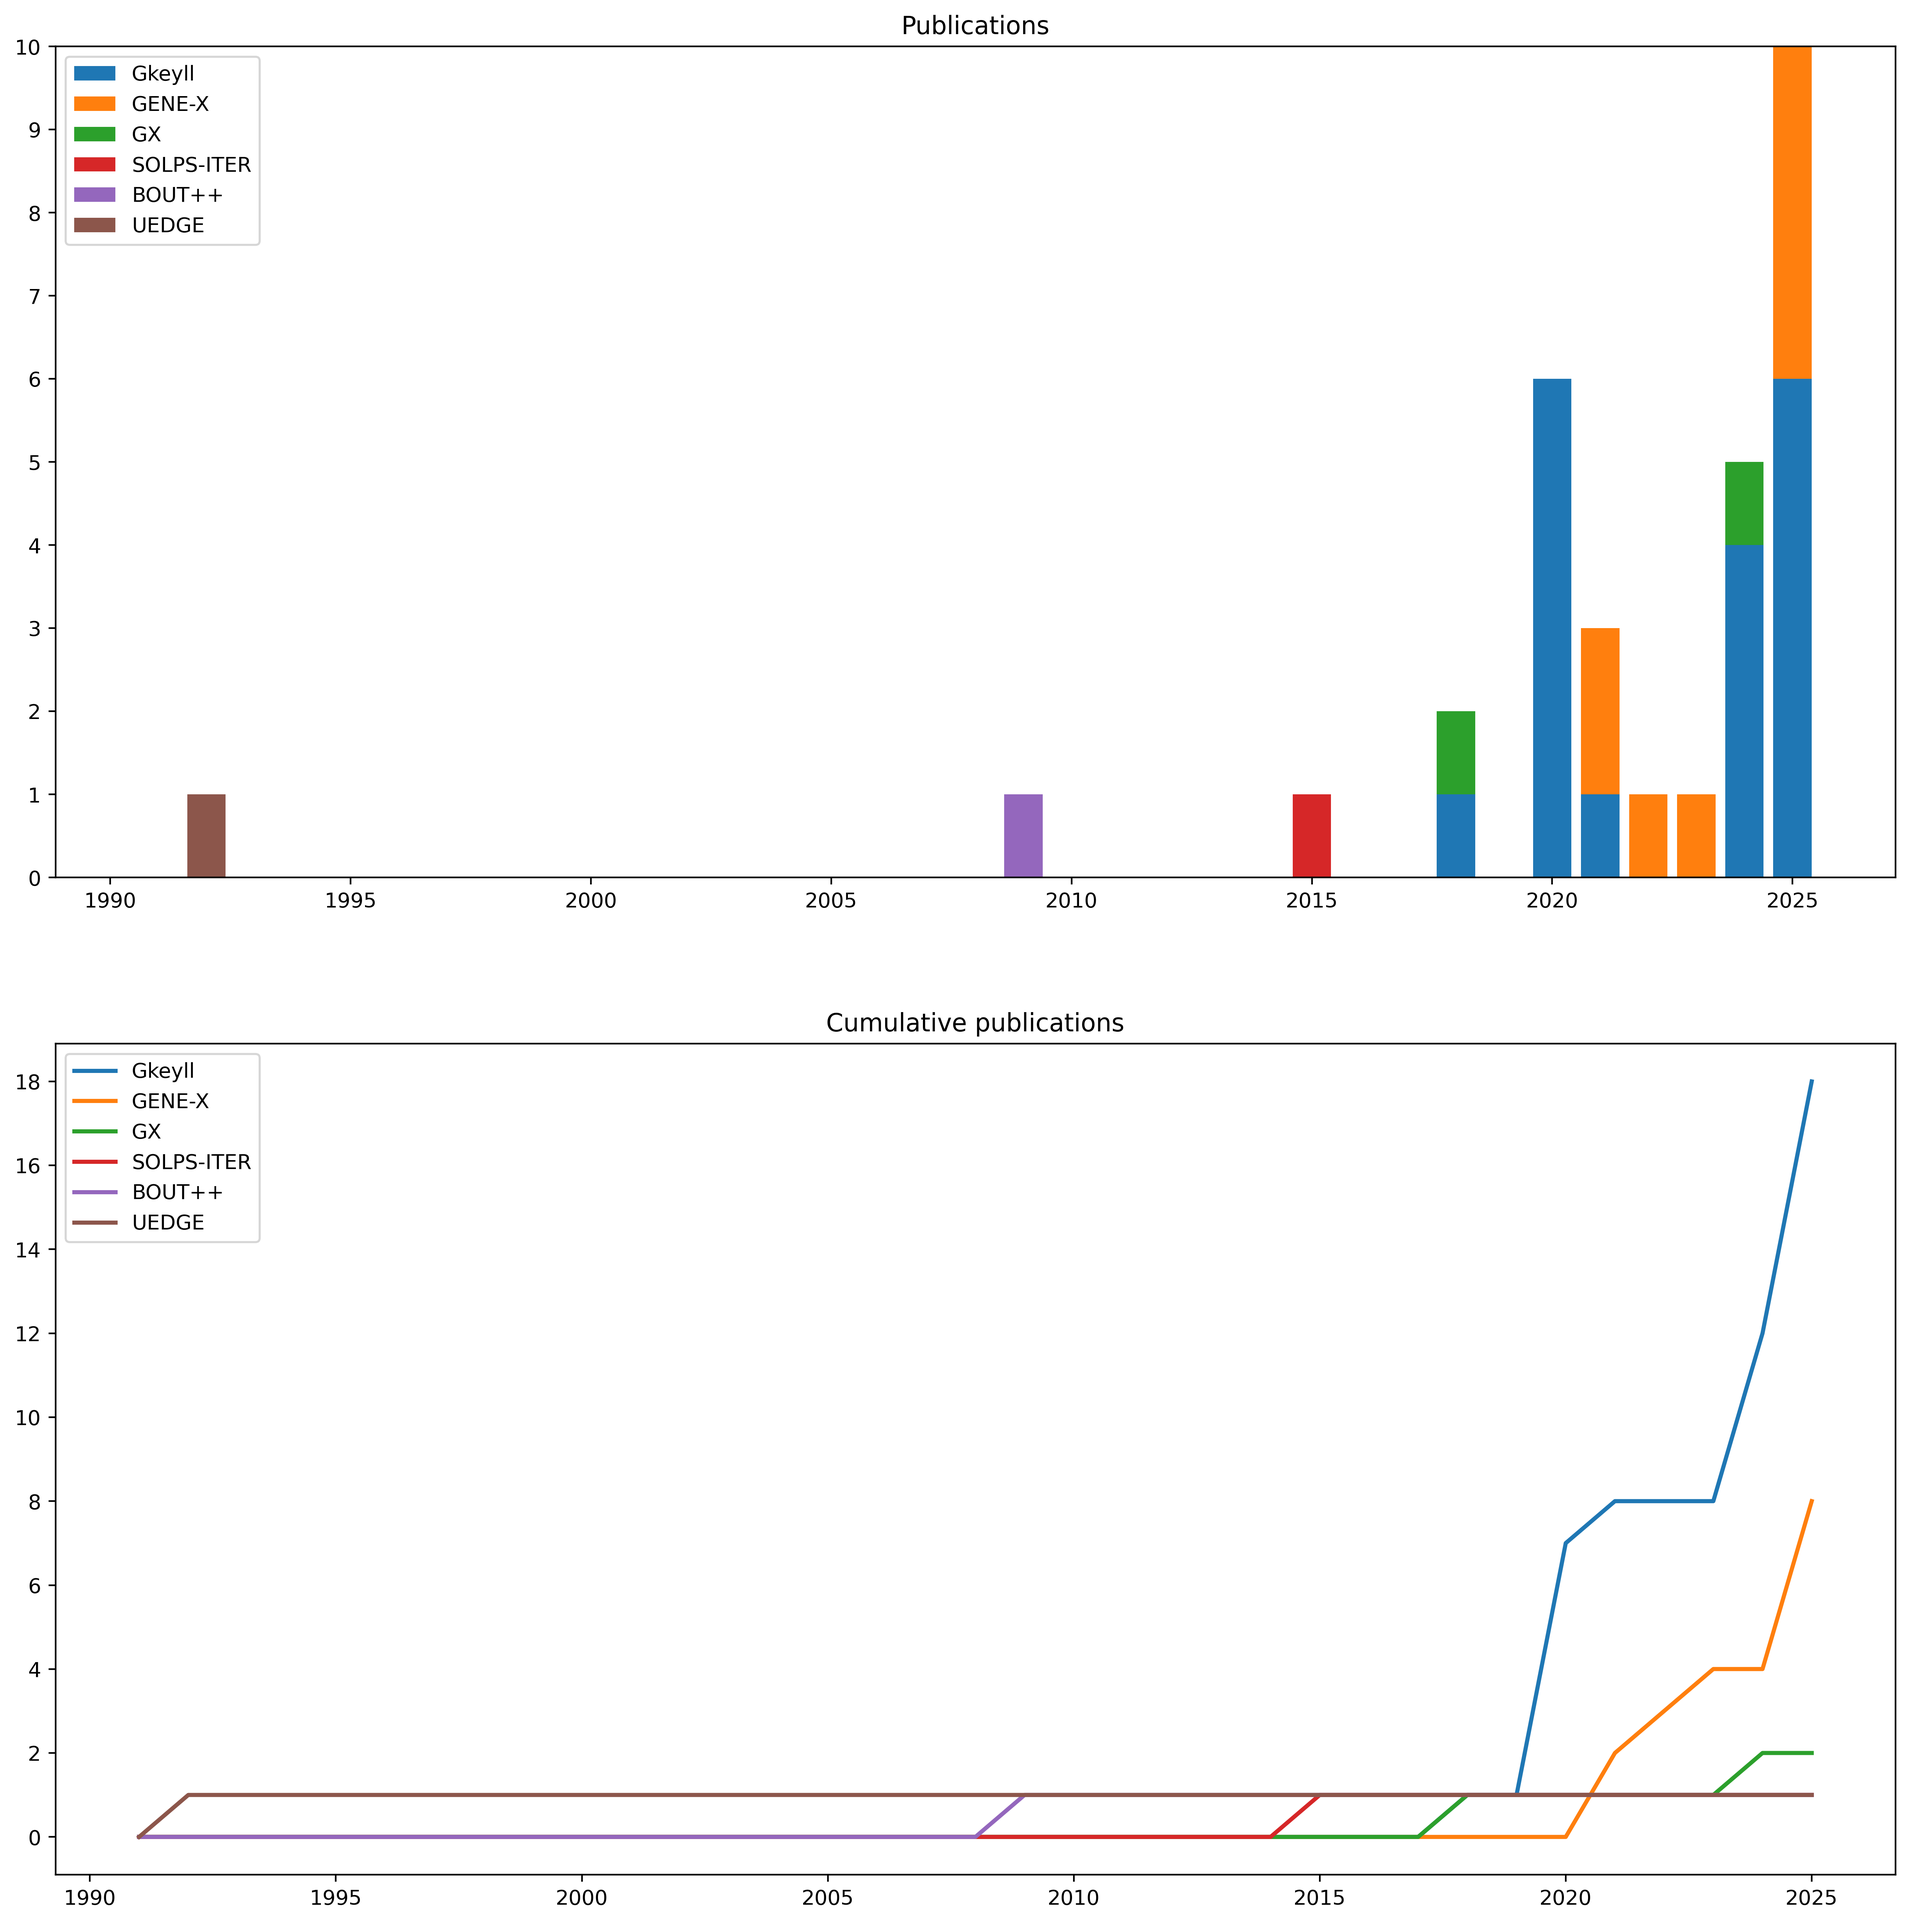
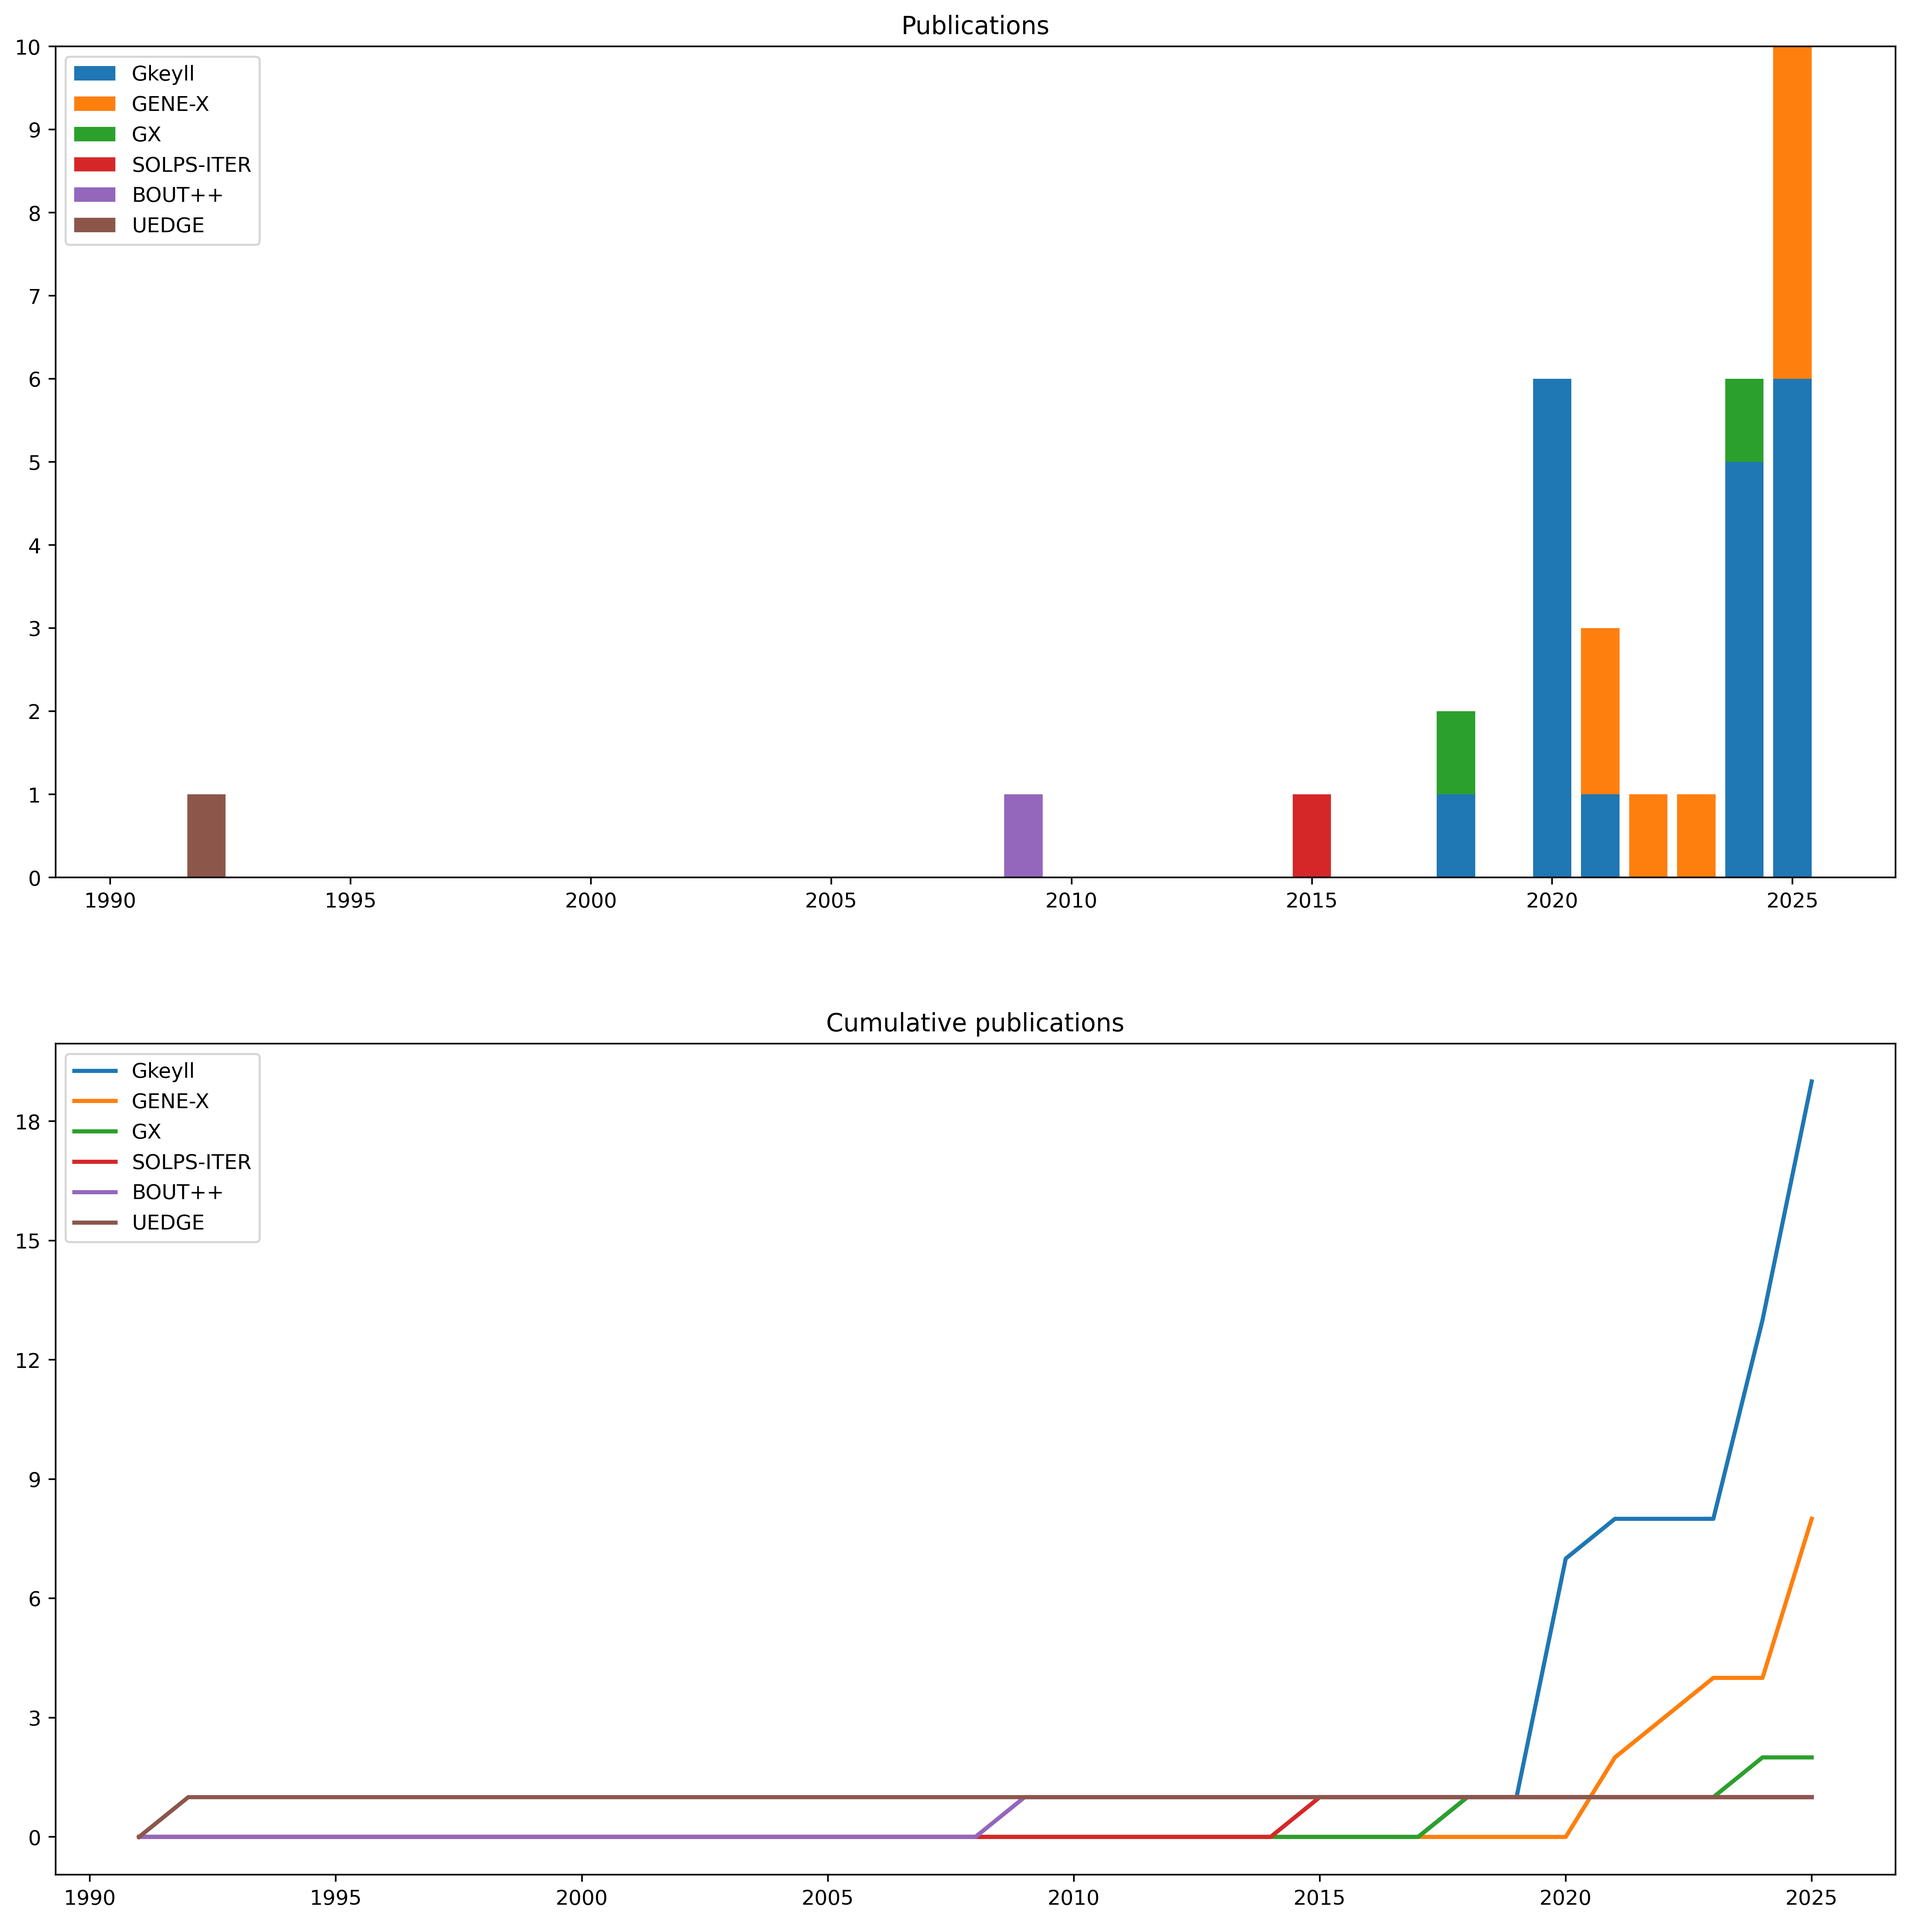
feat: add "10.3847/1538-4357/ad7c47"

diff --git a/README.md b/README.md
@@ -19,6 +19,7 @@
 - Conservative discontinuous Galerkin interpolation: Sheared boundary conditions. Francisquez at el. (2024) [10.1016/j.cpc.2024.109109](https://doi.org/10.1016/j.cpc.2024.109109)
 - GX: a GPU-native gyrokinetic turbulence code for tokamak and stellarator design. Mandell at el. (2024) [10.1017/S0022377824000631](https://doi.org/10.1017/S0022377824000631)
 - Weak baselines and reporting biases lead to overoptimism in machine learning for fluid-related partial differential equations. McGreivy and Hakim (2024) [10.1038/s42256-024-00897-5](https://doi.org/10.1038/s42256-024-00897-5)
+- Electron Influence on the Parallel Proton Firehose Instability in 10-moment, Multifluid Simulations. Walters at el. (2024) [10.3847/1538-4357/ad7c47](https://doi.org/10.3847/1538-4357/ad7c47)
 - Influence of collisions on the validation of global gyrokinetic simulations in the edge and scrape-off layer of TCV. Ulbl at el. (2023) [10.1063/5.0144688](https://doi.org/10.1063/5.0144688)
 - Full-*f* electromagnetic gyrokinetic turbulence simulations of the edge and scrape-off layer of ASDEX Upgrade with GENE-X. Michels at el. (2022) [10.1063/5.0082413](https://doi.org/10.1063/5.0082413)
 - A boundary value "reservoir problem" and boundary conditions for multi-moment multifluid simulations of sheaths. Cagas at el. (2021) [10.1063/5.0024510](https://doi.org/10.1063/5.0024510)
